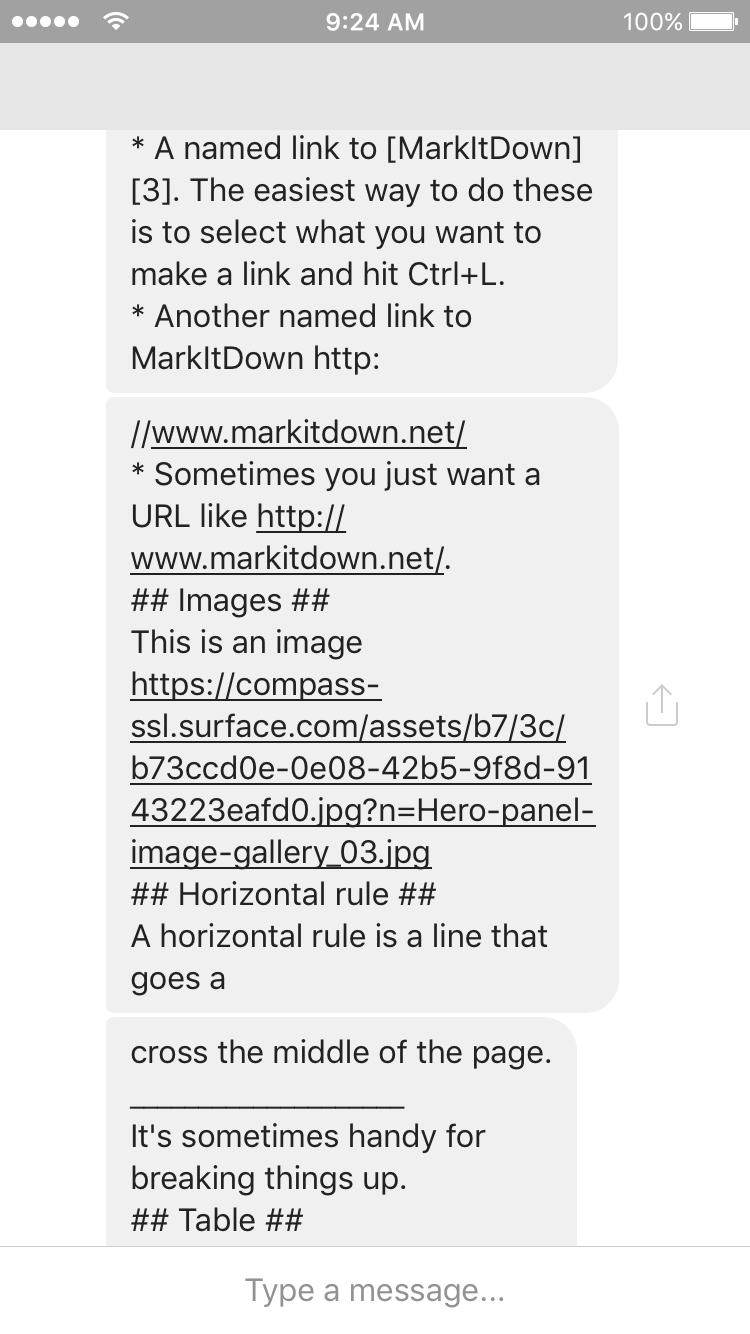
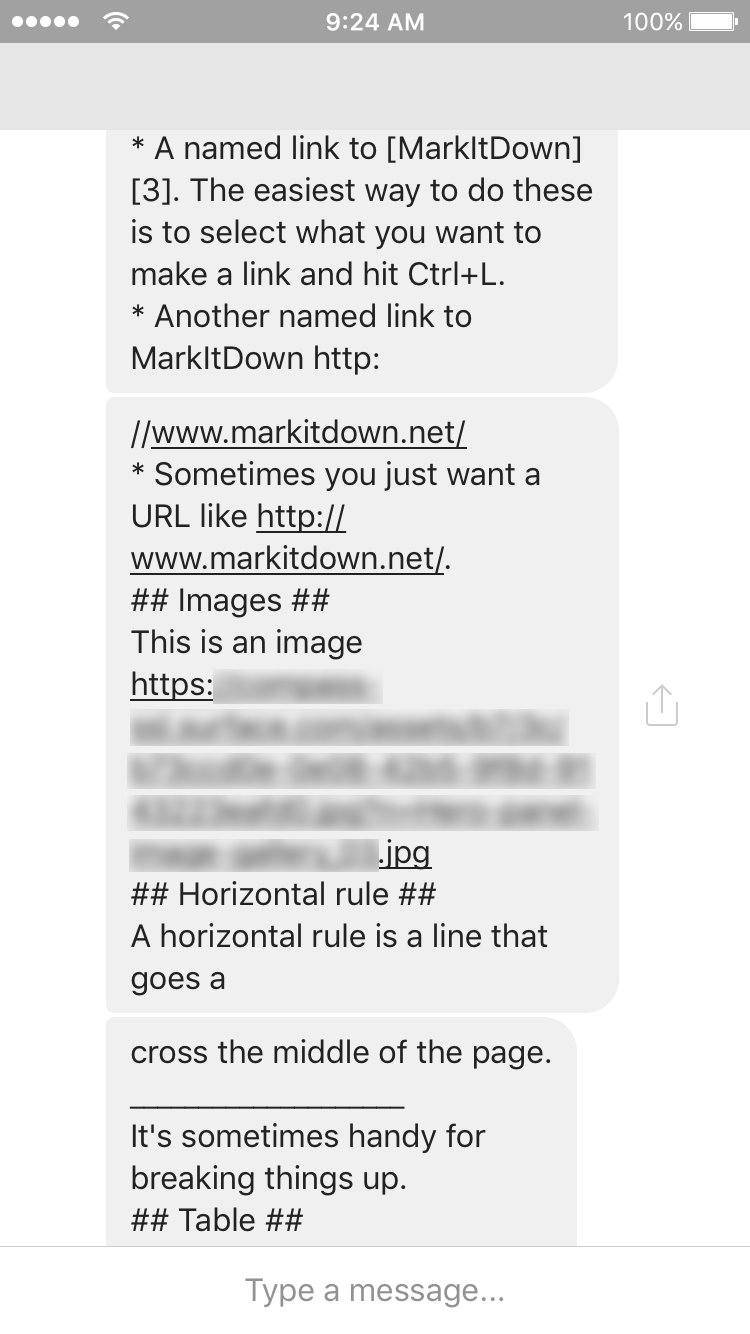
Adding AdaptiveCards for Email and bluring link in FB Markdown., Setting transparent to background-color.

Changed region(s): [[0.1533, 0.4918, 0.7973, 0.6762]]

diff --git a/css/inspector.css b/css/inspector.css
@@ -209,7 +209,7 @@ img.inspector-pop-out{
 }
 
 .post-content table.inspector-table{
-    background-color: #f7f7f7;
+    background-color: transparent;
     border-style: hidden;
     border-top-style: hidden;
     border-bottom: 1px solid #CCCCCC;
